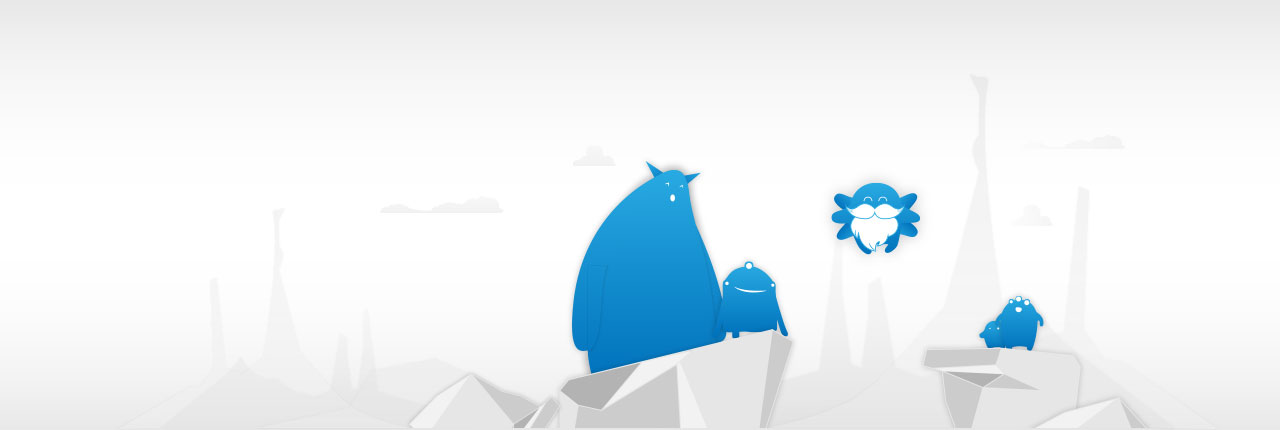
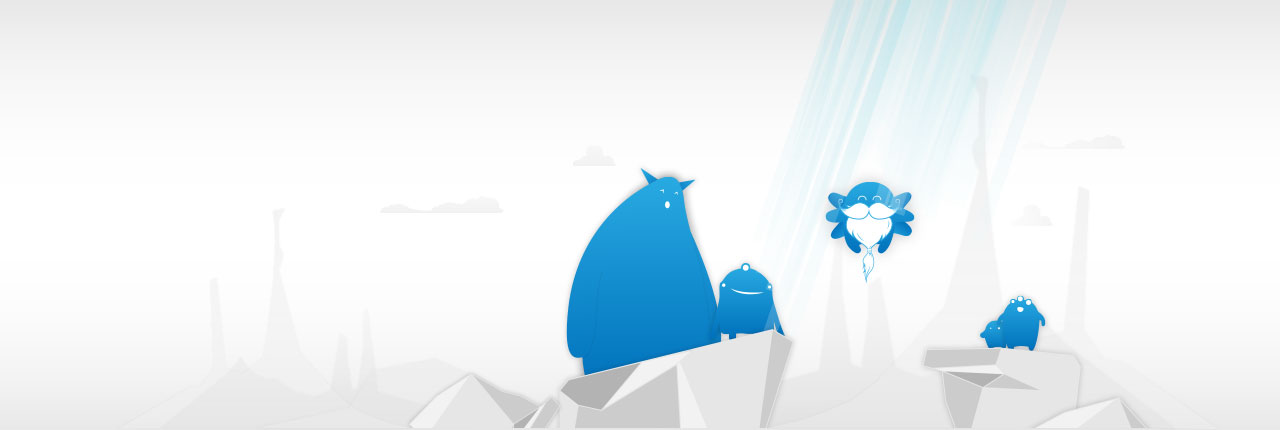
homepage design and content modifications + contact page content

diff --git a/generic/templates/layout.html b/generic/templates/layout.html
@@ -34,7 +34,7 @@
         {% trans "Hello," %} {{ user.username }} /
         <a href="{% url 'auth_logout' %}">{% trans "Log out" %}</a>
       {% else %}
-        <a href="{% url 'registration_register' %}">{% trans "Register" %}</a> /
+       >  <a href="{% url 'registration_register' %}"> {% trans "Register" %}</a> /
         <a href="{% url 'auth_login' %}">{% trans "Log in" %}</a>
       {% endif %}
     </div>
@@ -42,9 +42,7 @@
     <nav class="fr">
       <ul>
         <li class="fl"><a href="{% url 'websites_index' %}">{% trans "Suggested websites" %}</a></li>
-        <li class="fl">|</li>
         <li class="fl"><a href="{% url 'suggest_website' %}">{% trans "Suggest a website" %}</a></li>
-        <li class="fl">|</li>
         <li class="fl"><a href="{% url 'contact' %}">{% trans "Contact" %}</a></li>
       </ul>
     </nav>
@@ -60,6 +58,9 @@
     <img src="{{ STATIC_URL }}img/logo-grey.png" alt="Logo UXperiment footer" class="fl">
    <nav class="fr">
      <ul>
+     <li class="fl"><a href="{% url 'websites_index' %}">{% trans "Suggested websites" %}</a></li>
+     <li class="fl"><a href="{% url 'suggest_website' %}">{% trans "Suggest a website" %}</a></li>
+     <li class="fl"><a href="{% url 'contact' %}">{% trans "Contact" %}</a></li>
       <li class="fl"><a href="/pages/mentions-legales">{% trans "Legal" %}</a></li>
      </ul>
    </nav>

diff --git a/generic/static/css/styles.css b/generic/static/css/styles.css
@@ -50,6 +50,9 @@ nav {
 input {
   font-size: 0.938em; }
 
+.chapo {
+  font-style: italic; }
+
 /* Choose a grid width, the number of columns and the margin between columns. The result of the following equation has to be an integer, not a fraction: (width - (columns - 1) * col_margin) / columns = N */
 /* total with of page */
 .container {
@@ -168,19 +171,27 @@ ul {
   padding: 5px 15px;
   background: #29abe2;
   color: white;
-  font-weight: 600;
-  text-decoration: none; }
+  font-weight: 600; }
   .btn-subscribe a {
-    color: white; }
+    color: white;
+    text-decoration: none; }
 
 nav li {
   margin: 0 15px 0 0; }
   nav li:last-child {
     margin: 0; }
+    nav li:last-child:after {
+      content: ""; }
+  nav li:after {
+    content: "|"; }
 nav a {
+  padding: 0 15px 0 0;
   color: #4d4d4d;
   text-transform: uppercase;
-  text-decoration: none; }
+  text-decoration: none;
+  font-weight: 600; }
+  nav a:hover {
+    color: #29abe2; }
 
 .home-illustration {
   height: 430px;

diff --git a/generic/static/sass/styles.scss b/generic/static/sass/styles.scss
@@ -18,9 +18,9 @@
 	background: $secondary-color;
 	color: $color-for-bg;
 	font-weight: 600;
-	text-decoration: none; 
 	a {
 		color: $links-with-bg;
+		text-decoration: none; 
 	}
 }
 nav {
@@ -28,18 +28,29 @@ nav {
 		margin: 0 15px 0 0;
 		&:last-child {
 			margin: 0;
+			&:after {
+				content: "";
+			}
+		}
+		&:after {
+			content:"|";
 		}
 	}
 	a{
+		padding: 0 15px 0 0;
 		color: $body-color;
 		text-transform: uppercase;
 		text-decoration: none;
+		font-weight: 600;
+		&:hover {
+			color: $secondary-color;
+		}
 	}
 }
 .home-illustration {
 	height: 430px;
 	background: url(../img/home-illustration.jpg) center bottom no-repeat,
-				url(../img/bg-home-illustration.jpg) 0 0 repeat-x;
+	url(../img/bg-home-illustration.jpg) 0 0 repeat-x;
 }
 .illustration-title {
 	margin: 0;

diff --git a/pages/templates/pages/contact.html b/pages/templates/pages/contact.html
@@ -1,10 +1,15 @@
 {% extends "layout.html" %}
 {% load i18n %}
 {% load url from future %}
-
+{% block meta_title %}Contact{% endblock %}
 {% block content %}
     <section class="clearfix container main-container">
         <h1>{% trans "Contact" %}</h1>
+        <p class="chapo">
+        UXperiment est un site qui se veut collaboratif. <br/>
+        Nous sommes à l'écoute de toutes remarques qui puissent nous faire avancer. <br/>
+        N'hésitez pas à nous contacter, même pour nous dire 3 mots ;) 
+        </p>
         <form method="post" action="{% url "contact" %}">
             {% csrf_token %}
             {{ form.subject.errors }}

diff --git a/generic/templates/registration/logout.html b/generic/templates/registration/logout.html
@@ -2,5 +2,7 @@
 {% load i18n %}
 
 {% block content %}
+<section class="clearfix container main-container">
     <p>{% trans "You've been succesfully logged out." %}</p>
+</section>
 {% endblock %}

diff --git a/generic/static/sass/_typo.scss b/generic/static/sass/_typo.scss
@@ -61,3 +61,6 @@ nav {
 input {
     font-size: 0.938em;
 }
+.chapo {
+    font-style: italic;
+}
